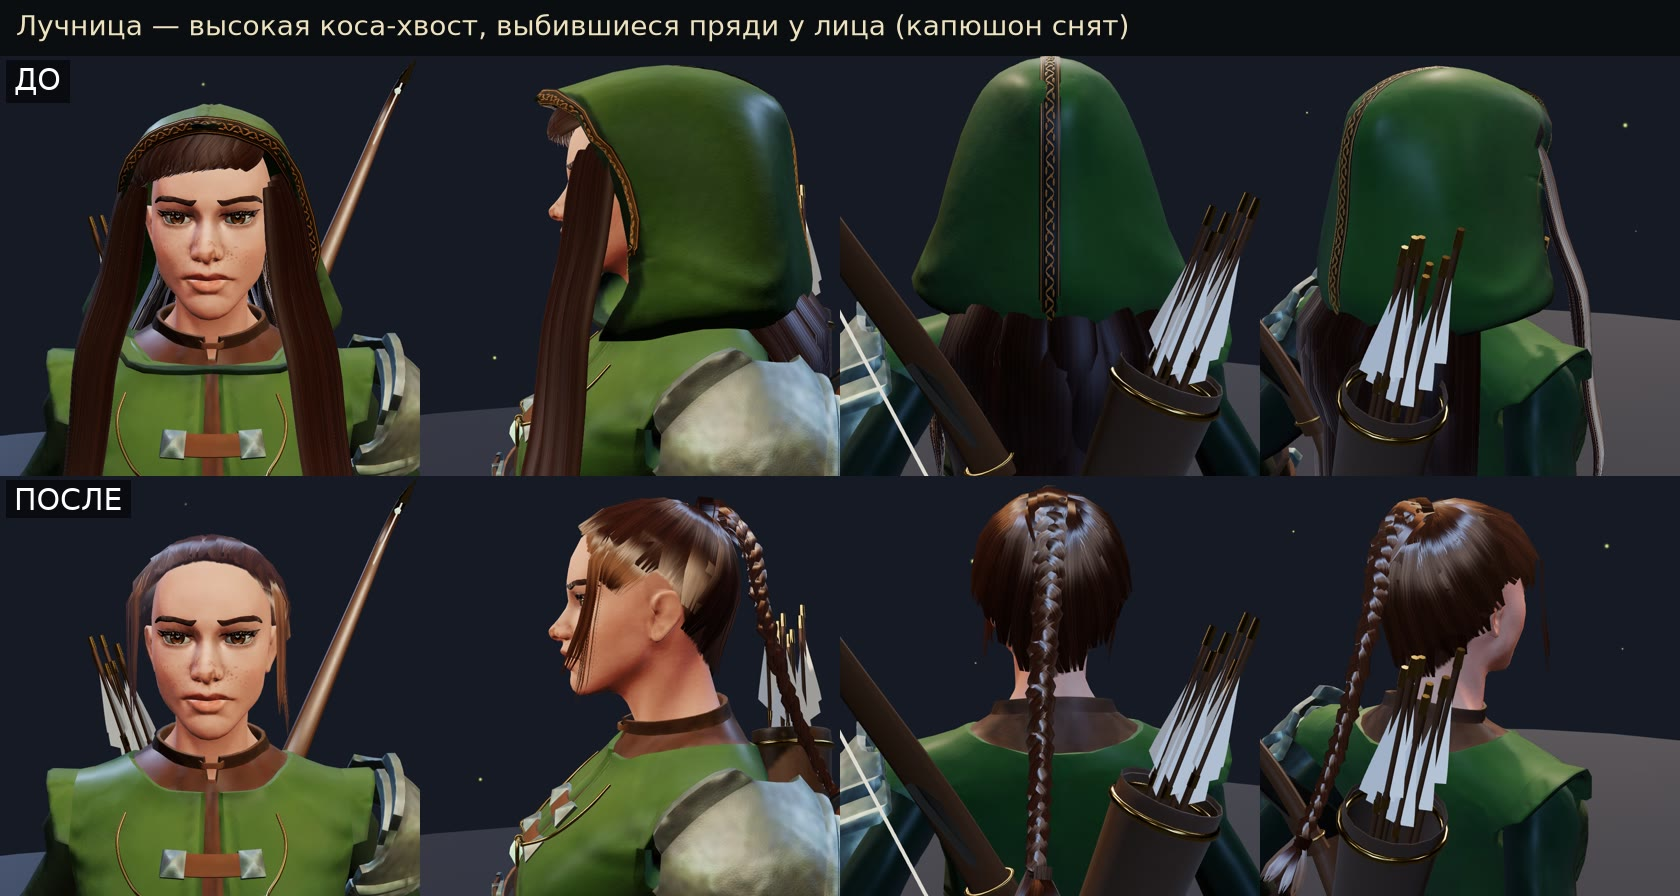
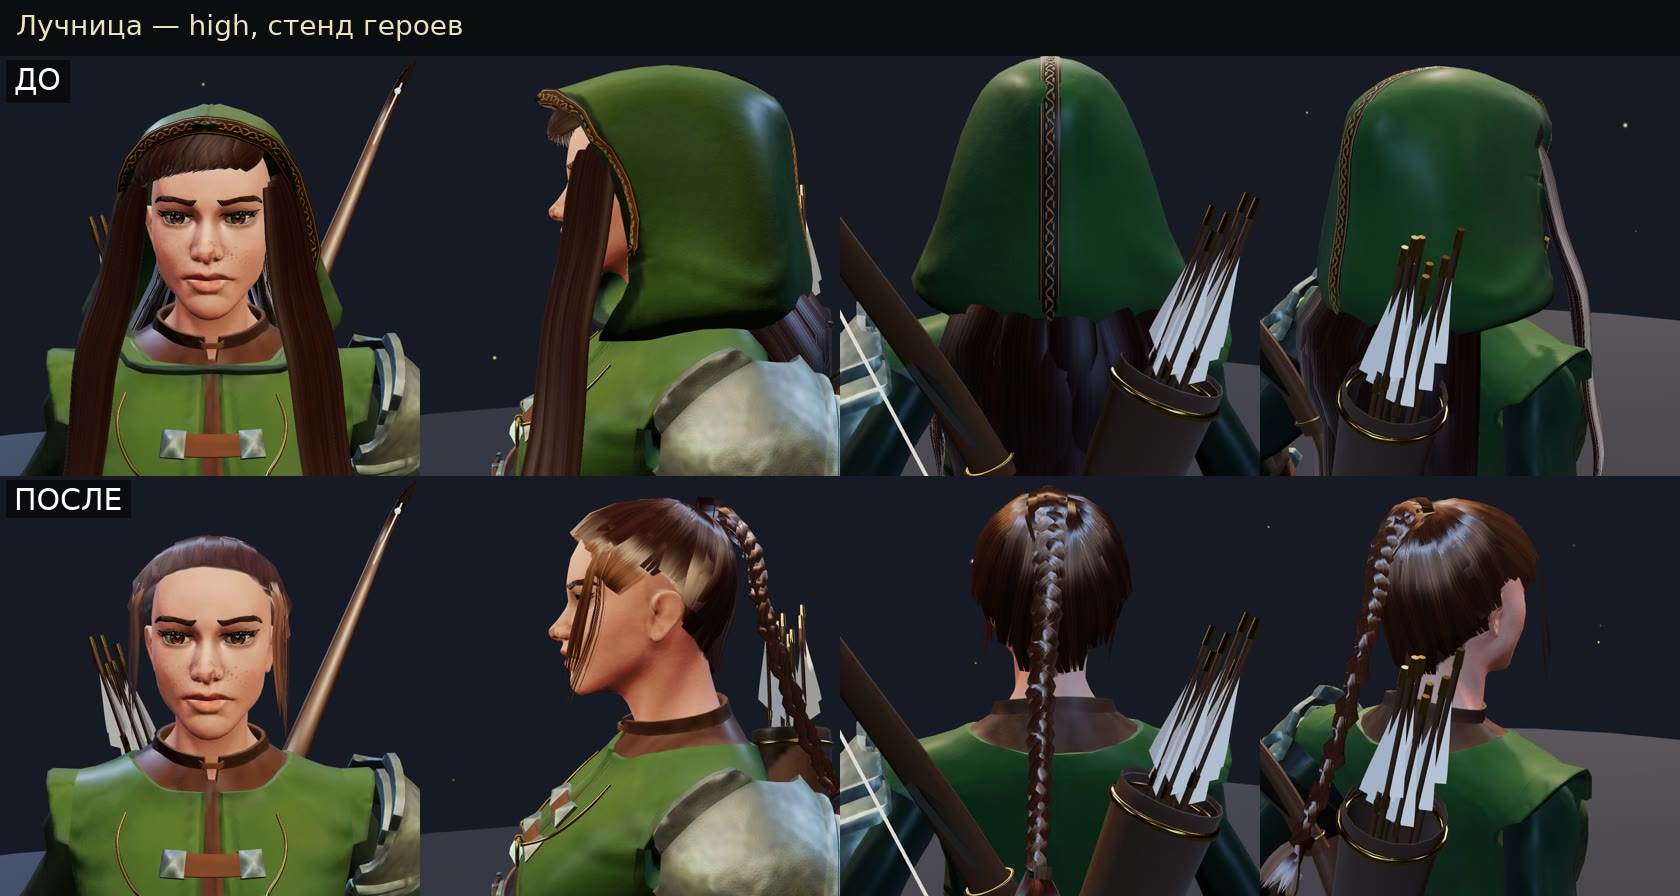
Волосы лучницы: линия роста надо лбом ниже и плотнее (узкая кромка оболочки, пряди до самой линии)
Claude-Session: https://claude.ai/code/session_01PpQtcaqmcYdura61U2qPrK

diff --git a/modules/heroHair.js b/modules/heroHair.js
@@ -434,7 +434,8 @@ export function buildHair(THREE, ctx) {
   };
   const S = (az, pol, lift = 0, out = V3()) => onScalp(dirOf(az, pol), lift, out);
   const polY = (yHead) => Math.acos(Math.max(-0.97, Math.min(0.97, (yHead - cy) / ry)));   // полярный угол высоты (оси головы)
-  const polFront = polY(browY + 0.058);                 // линия роста надо лбом
+  // линия роста надо лбом; у гладкой причёски с открытым лбом — чуть ниже (лоб не «высокий»)
+  const polFront = polY(browY + (styleId === 'ponytail' ? 0.05 : 0.058));
   // линия роста: |az| 0 — затылок … π — лоб (кусочно-линейно); уши — открыты
   const HL = [[0, 2.45], [0.55, 2.36], [1.0, 2.14], [1.25, 1.62], [1.45, 1.42], [1.75, 1.42], [1.95, 1.66], [2.08, 1.66], [2.28, 1.28], [2.62, polFront + 0.06], [Math.PI, polFront]];
   const hairPol = (az) => {
@@ -707,9 +708,10 @@ export function buildHair(THREE, ctx) {
         // касательная — от полюса (направление пряди)
         T.copy(P).multiplyScalar(-Math.sin(de)).addScaledVector(E1, Math.cos(de) * Math.cos(th)).addScaledVector(E2, Math.cos(de) * Math.sin(th)).normalize();
         const sh = (o.tone ?? 0.62) * (0.85 + 0.15 * f);
-        const a = f < 0.9 ? 1 : 1 - (f - 0.9) / 0.1 * (o.edge ?? 0.5);
-        // плотная подложка атласа — до v ≈ 0.5, дальше кончики: у линии роста — только последние 10 %
-        const vv = f < 0.9 ? 0.04 + 0.42 * (f / 0.9) : 0.46 + 0.4 * ((f - 0.9) / 0.1);
+        // плотная подложка атласа — до v ≈ 0.5, дальше кончики: у линии роста — только последняя доля tip
+        const tf = 1 - (o.tip ?? 0.1);
+        const a = f < tf ? 1 : 1 - (f - tf) / (1 - tf) * (o.edge ?? 0.5);
+        const vv = f < tf ? 0.04 + 0.42 * (f / tf) : 0.46 + 0.4 * ((f - tf) / (1 - tf));
         vtx(p, d, (0.3 + 0.4 * tri) * 0.25, vv, [sh, sh, sh], a, [chestW(p), 0, rr(), 0], T);
       }
     }
@@ -871,7 +873,8 @@ export function buildHair(THREE, ctx) {
 
   function buildPonytail() {
     const tieDir = dirOf(0, 0.62);
-    shell(tieDir, 0.0035, 40, 10, { tone: 0.58, rep: 9 });
+    // открытый лоб: кромка оболочки узкая и плотная — без серой полосы «редеющих» волос
+    shell(tieDir, 0.0035, 40, 12, { tone: 0.58, rep: 9, tip: 0.05, over: 0.035, edge: 0.6 });
     const tie = onScalp(tieDir, 0.012);
     // пряди от линии роста к узлу хвоста (гладко зачёсаны назад), кончики атласа — у линии роста
     const P = tieDir.clone(), E1 = V3().crossVectors(P, UP).normalize(), E2 = V3().crossVectors(P, E1);
@@ -884,11 +887,11 @@ export function buildHair(THREE, ctx) {
         const dirAt = (de) => d.copy(P).multiplyScalar(Math.cos(de)).addScaledVector(E1, Math.sin(de) * Math.cos(th)).addScaledVector(E2, Math.sin(de) * Math.sin(th));
         for (let it = 0; it < 20; it++) { const mid = (lo + hi) / 2; const a = angOf(dirAt(mid)); if (a.pol < hairPol(a.az)) lo = mid; else hi = mid; }
         const lift = 0.004 + layer * 0.0035;
-        const start = onScalp(dirAt(lo + 0.03).clone(), lift);
+        const start = onScalp(dirAt(lo + 0.012).clone(), lift);
         const pts = walk(start, tie, 0.016, lift, 40);
         pts.forEach((p, i) => { const t = i / Math.max(1, pts.length - 1); p.addScaledVector(out(p, V3()), 0.005 * t * t); });
         const front = Math.cos(th) < 0 ? 1 : 0;
-        card(pts.reverse(), { tile: layer ? 1 : 0, w0: 0.03, w1: 0.05 + 0.01 * front, tone: (layer ? 1 : 0.85) * (0.95 + 0.1 * rr()), flexK: 0, chest: 0, bulge: 0.2, v0: 0.04, vLin: true, v1: layer ? 0.7 : 0.84, rootDark: 0.9, alpha: (t) => (t > 0.85 ? 1 - (t - 0.85) * 3 : 1) });
+        card(pts.reverse(), { tile: layer ? 1 : 0, w0: 0.03, w1: 0.05 + 0.01 * front, tone: (layer ? 1 : 0.85) * (0.95 + 0.1 * rr()), flexK: 0, chest: 0, bulge: 0.2, v0: 0.04, vLin: true, v1: layer ? 0.62 : 0.72, rootDark: 0.9, alpha: (t) => (t > 0.93 ? 1 - (t - 0.93) * 6 : 1) });
       }
     }
     // хвост: от узла чуть вверх-назад, затем вниз по спине; коса из трёх прядей, кисточка на конце
